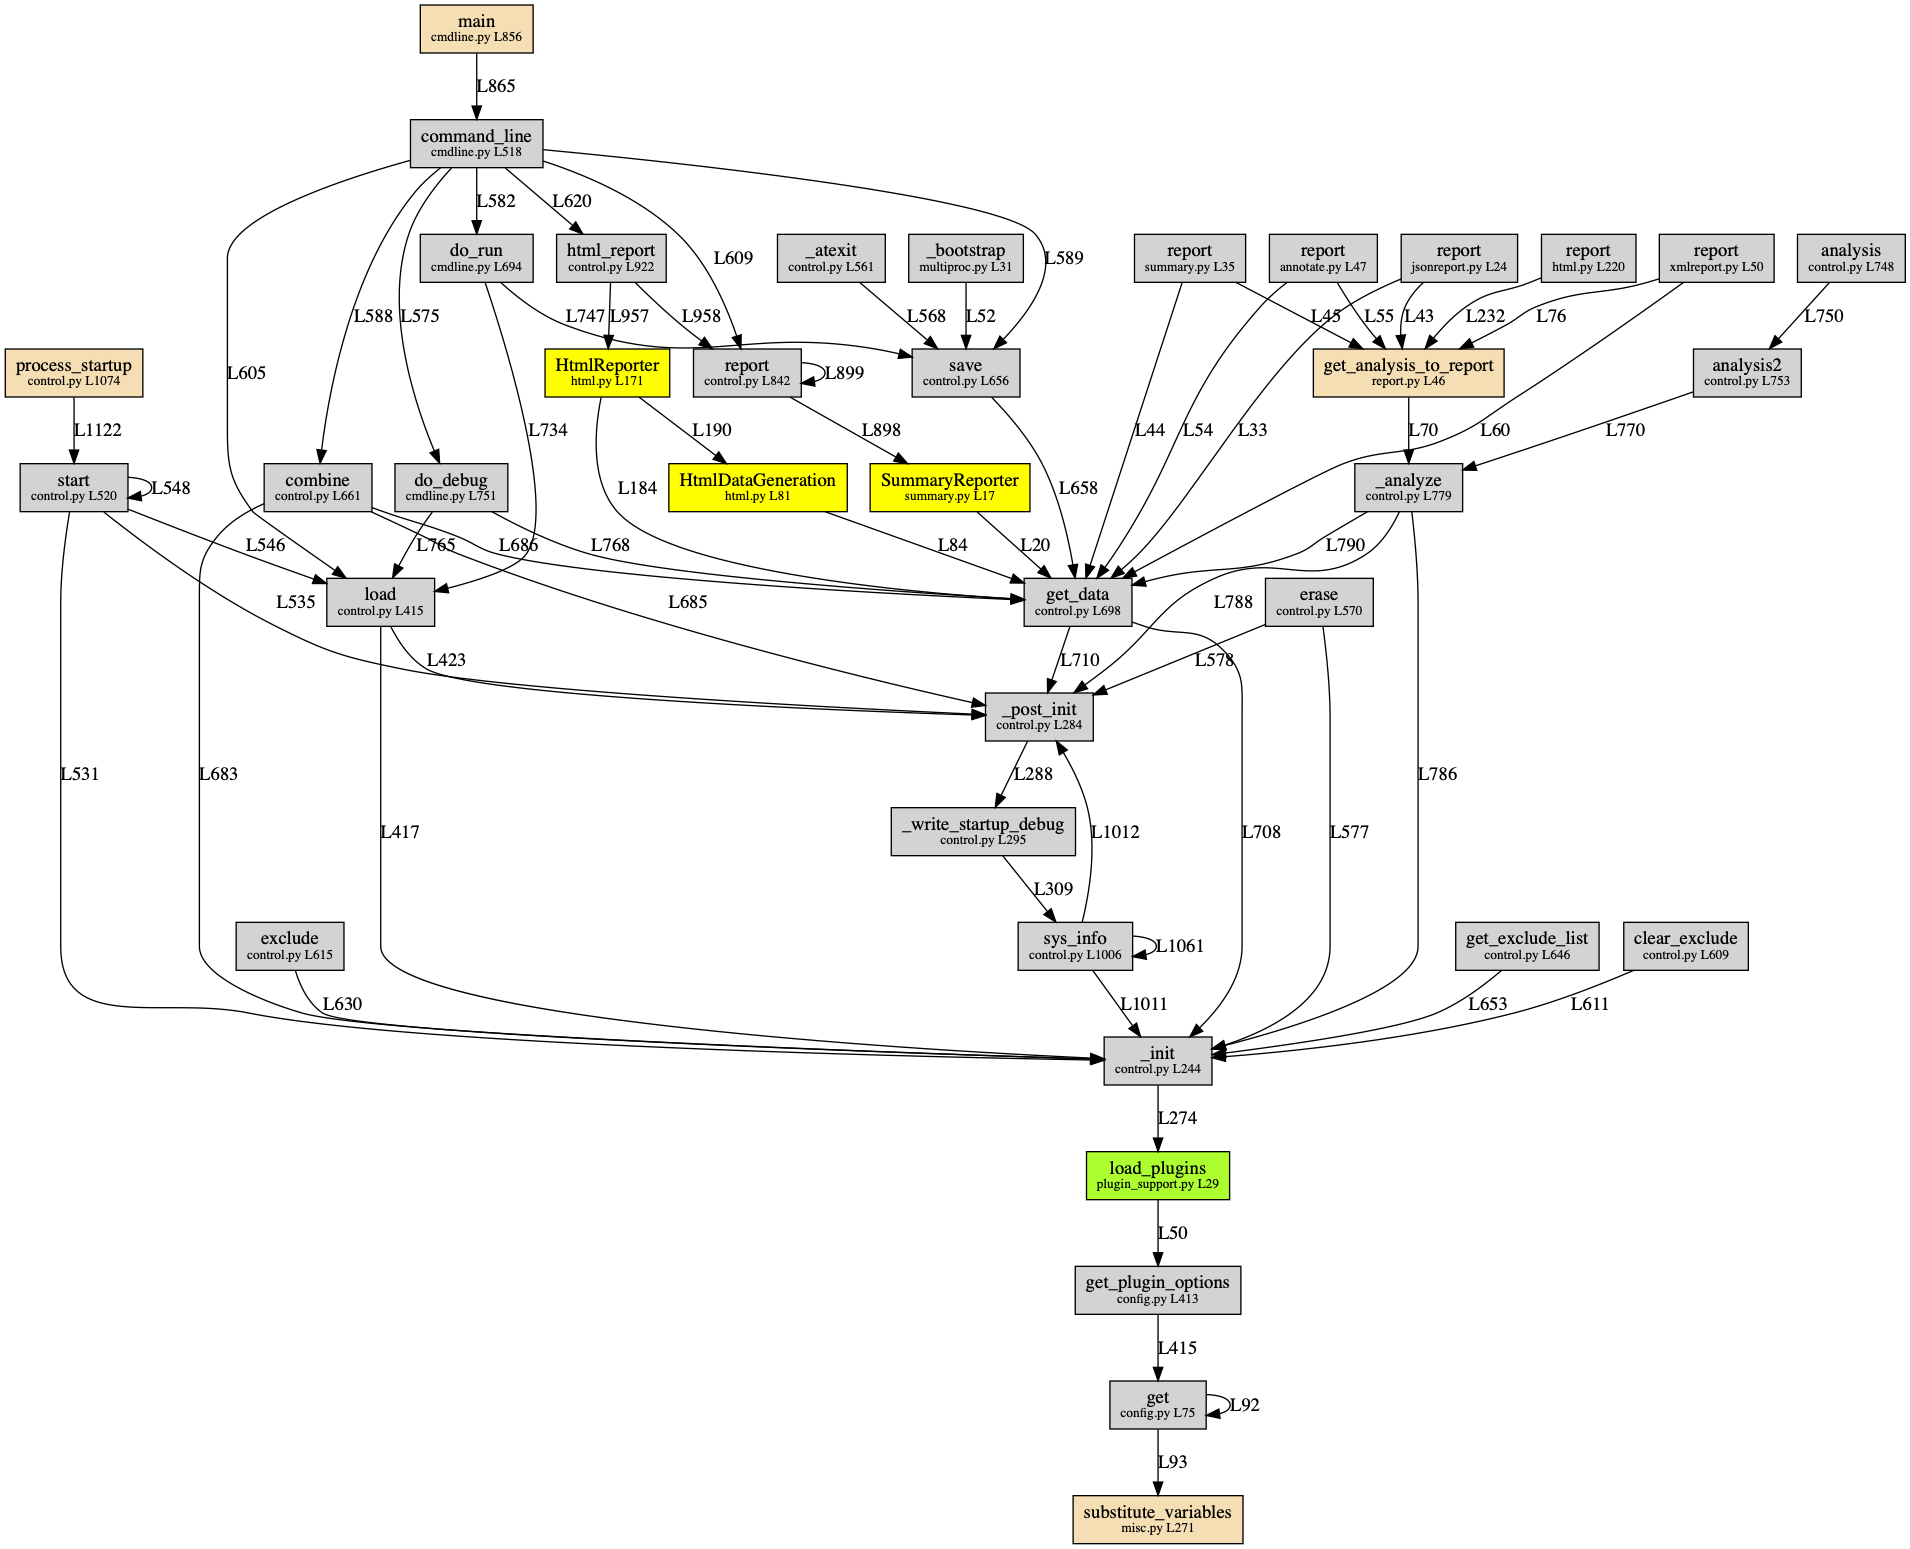
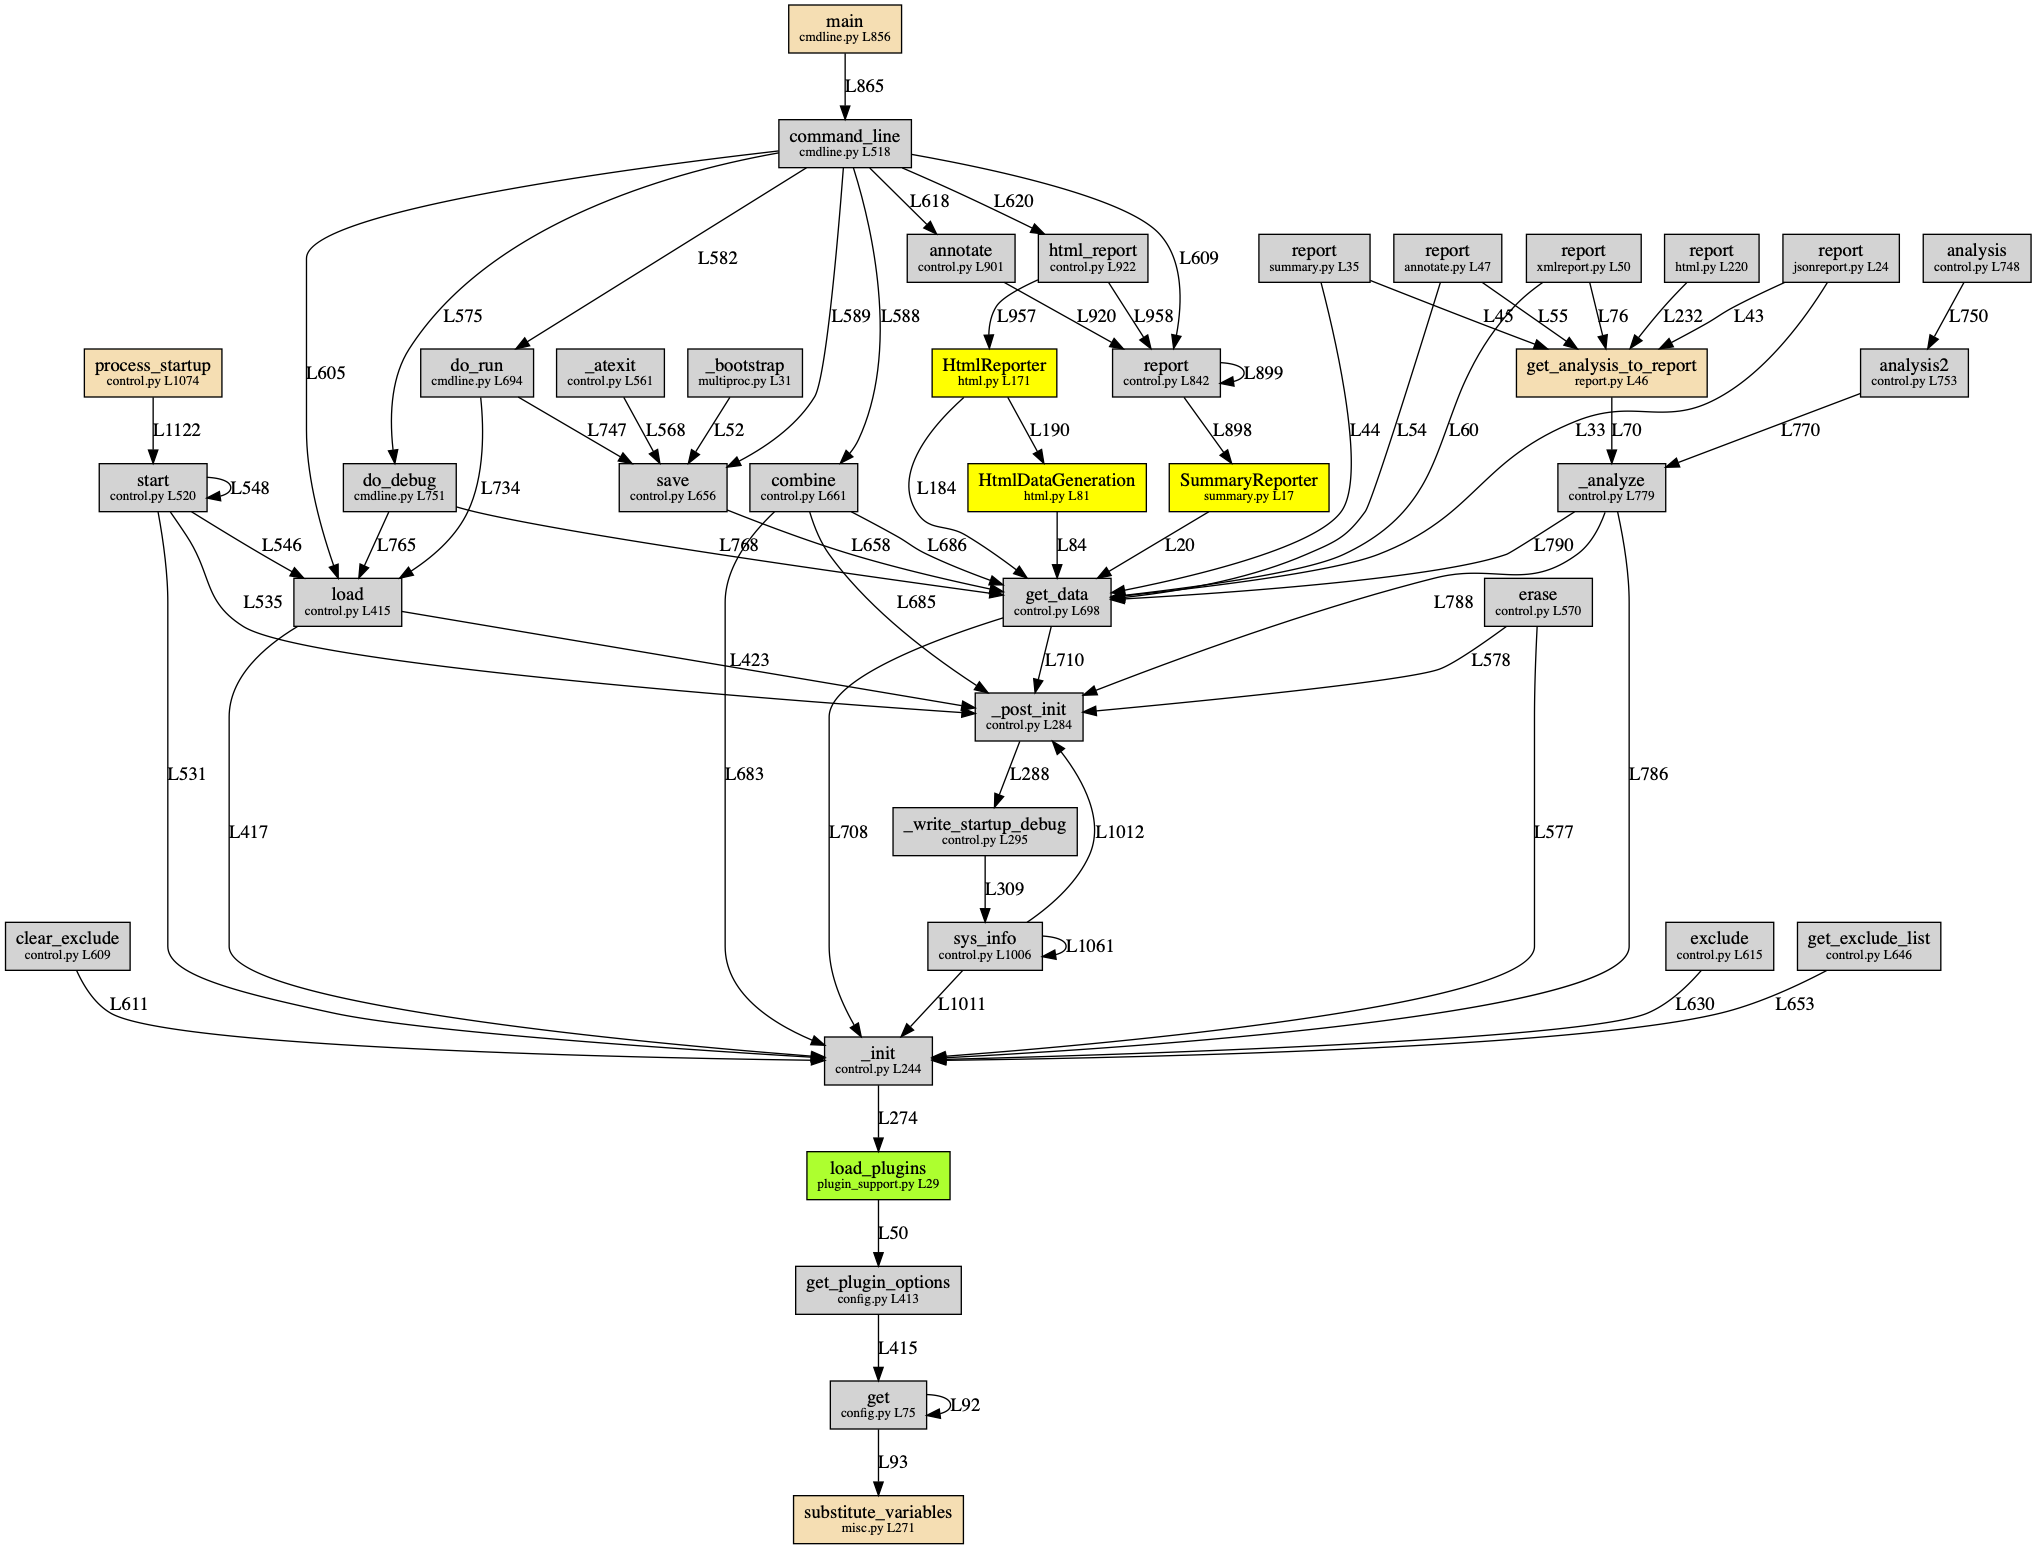
Add more guessings

diff --git a/build_func_deps.py b/build_func_deps.py
@@ -95,9 +95,23 @@ def solve_ambiguity_call(caller_def, call_node):
             if (call_args_length >= func_def.min_args) and (call_args_length <= func_def.max_args):
                 func_defs_matched.append(func_def)
 
-        # Secondly try to match source (if caller and callee in the same source file)
-        if len(func_defs_matched) > 1 and enable_ambiguity_call_guessing:
-            func_defs_guessing = tuple(fd for fd in func_defs_matched if fd.source == caller_def.source)
+        if enable_ambiguity_call_guessing:
+            # Firstly guessing caller and callee in the similar modules
+            if len(func_defs_matched) > 1:
+                func_defs_guessing = tuple(
+                    fd for fd in func_defs_matched if (
+                            fd.source in caller_def.source or caller_def.source in fd.source))
+
+            # Second guessing caller and callee in the same source file
+            if len(func_defs_guessing) > 1:
+                func_defs_guessing = tuple(
+                    fd for fd in func_defs_matched if fd.source == caller_def.source)
+
+            # Last guessing by calculating distance of lines, and choose the nearest one
+            if len(func_defs_guessing) > 1:
+                func_defs_guessing = sorted(
+                    func_defs_guessing, key=lambda fd: abs(fd.lineno-caller_def.lineno))
+                func_defs_guessing = func_defs_guessing[0:1]
 
     return func_defs_guessing if func_defs_guessing else func_defs_matched
 
